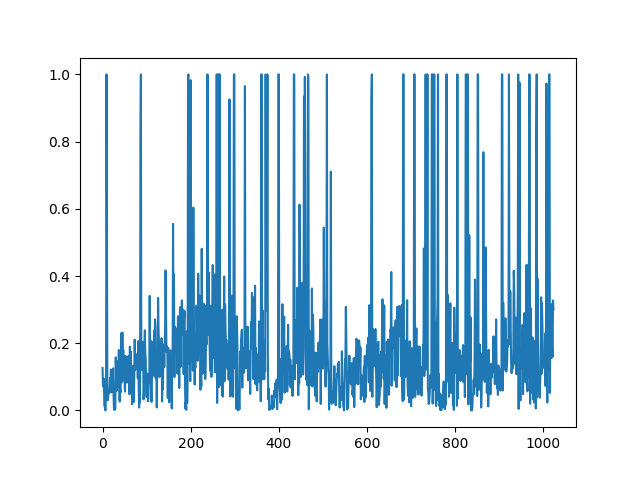
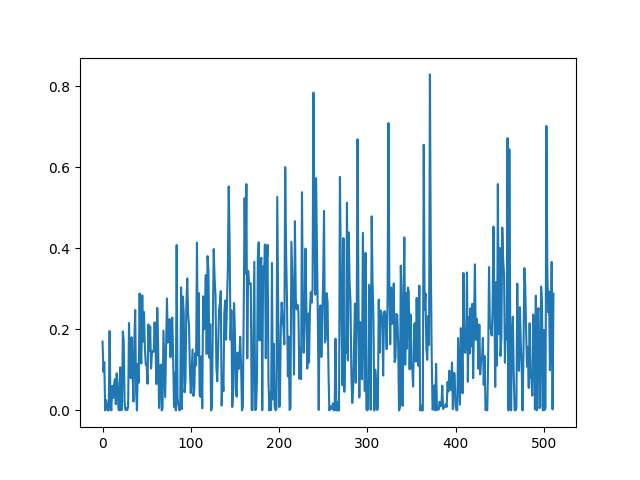
Changing trained model

diff --git a/prediction_experiments.py b/prediction_experiments.py
@@ -2,7 +2,7 @@ import torch
 import torch.nn as nn
 import torch.nn.functional as F
 from torch.utils.data import DataLoader
-from transformers import AutoModelForCausalLM, AutoTokenizer
+from transformers import AutoModelForCausalLM, AutoTokenizer, set_seed
 import os 
 import argparse
 from ensemble import Ensemble
@@ -15,19 +15,21 @@ import matplotlib.pyplot as plt
 from scipy.optimize import bisect
 import numpy as np
 
+set_seed(0)
+
 parser = argparse.ArgumentParser()
 parser.add_argument("--num_ensemble", type=int, default=8)
 parser.add_argument("--model_name", type=str, default="GPT2")
 parser.add_argument("--dataset", type=str, default="wikitext")
-parser.add_argument("--data_subset", type=str, default="wikitext-103-raw-v1")
+parser.add_argument("--data_subset", type=str, default="wikitext-103-v1")
 parser.add_argument("--device", type=str, default="cuda:6")
 parser.add_argument("--seq_length", type=int, default=512)
-parser.add_argument("--query_budget", type=int, default=1024)
+parser.add_argument("--query_budget", type=int, default=512)
 parser.add_argument("--target_multiplier", type=float, default=1.0)
 parser.add_argument("--epsilon", type=float, default=1.0)
 parser.add_argument("--temperature", type=float, default=0.95)
 parser.add_argument("--p_value", type=float, default=1.)
-parser.add_argument("--e_value", type=float, default=0.8)
+parser.add_argument("--e_value", type=float, default=0.01)
 
 def main():
     COUNT = 0
@@ -35,7 +37,7 @@ def main():
     tokenizer = AutoTokenizer.from_pretrained(args.model_name)
     model_dir = os.path.join("models", f"{args.num_ensemble}_ensemble")
 
-    model_paths = [os.path.join(model_dir, f"lora-{args.model_name}-{i}-finetuned-{args.data_subset}")
+    model_paths = [os.path.join(model_dir, f"lora-{args.model_name}-{i}-finetuned-wikitext-103-raw-v1")
                     for i in range(args.num_ensemble)]
     priv_ensemble = Ensemble(model_paths,
                              args.model_name,
@@ -43,19 +45,21 @@ def main():
                              args.device,
                              q_budget=args.query_budget,
                              eps=args.epsilon,
-                             target_mult=args.target_multiplier)
+                             target_mult=args.target_multiplier,
+                             p_value=args.p_value)
 
     #pub_model = AutoModelForCausalLM.from_pretrained(args.model_name,
     #                                                pad_token_id=tokenizer.eos_token_id).to(
     #                                                args.device)
 
     fine_tuned_model_dir = os.path.join("models", f"lora-{args.model_name}-finetuned-{args.data_subset}")
+    #fine_tuned_model_dir = os.path.join("models", f"lora-{args.model_name}-finetuned-wikitext-103-v1")
     fine_tuned_model = PeftModel.from_pretrained(copy.deepcopy(priv_ensemble.pub_model),
                                                  fine_tuned_model_dir,
                                                  pad_token_id=tokenizer.eos_token_id).to(
                                                  args.device)
     #dp_fine_tuned_model = torch.load(os.path.join("models", f"lora-{args.model_name}-{args.epsilon}-dp-finetuned-{args.data_subset}.pt")).to(args.device)
-    dp_fine_tuned_model = torch.load(os.path.join("models", f"lora-{args.model_name}-1.0-dp-finetuned-{args.data_subset}.pt")).to(args.device)
+    dp_fine_tuned_model = torch.load(os.path.join("models", f"lora-{args.model_name}-1.0-dp-finetuned-wikitext-103-raw-v1.pt")).to(args.device)
 
     seq_length = 512
     dataset = load_dataset(args.dataset, args.data_subset)
@@ -83,7 +87,7 @@ def main():
     dp_fine_tuned_neg_log_likelihood = []
     ensemble_neg_log_likelihood= []
     priv_neg_log_likelihood= []
-    test_loader = DataLoader(test_data)
+    test_loader = DataLoader(test_data)#, shuffle=True)
     priv_loss = []
     lambdas = []
     left_over = 0
@@ -96,13 +100,14 @@ def main():
             pub_output_logits = priv_ensemble.pub_model(input_ids).logits
             fine_tuned_output_logits =fine_tuned_model(input_ids).logits
             dp_fine_tuned_output_logits = dp_fine_tuned_model(input_ids).logits
-            pub_output_softmax = nn.functional.softmax(pub_output_logits.squeeze()/args.temperature)
-            fine_tuned_output_softmax = nn.functional.softmax(fine_tuned_output_logits.squeeze())
-            #fine_tuned_output_logits_filtered = top_p_filtering(fine_tuned_output_logits.clone().squeeze(), args.p_value) 
-            #fine_tuned_output_softmax = nn.functional.softmax(fine_tuned_output_logits_filtered/args.temperature)
-            #pub_output_logits_filtered = top_p_filtering(pub_output_logits.clone().squeeze(), args.p_value) 
+            #pub_output_softmax = nn.functional.softmax(pub_output_logits.squeeze()/args.temperature)
+            #fine_tuned_output_softmax = nn.functional.softmax(fine_tuned_output_logits.squeeze()/args.temperature)
+            fine_tuned_output_logits_filtered = top_p_filtering(fine_tuned_output_logits.clone().squeeze(), args.p_value) 
+            #fine_tuned_output_logits_filtered = epsilon_filtering(fine_tuned_output_logits.clone().squeeze(), args.e_value) 
+            fine_tuned_output_softmax = nn.functional.softmax(fine_tuned_output_logits_filtered/args.temperature)
+            pub_output_logits_filtered = top_p_filtering(pub_output_logits.clone().squeeze(), 0.99) 
             #pub_output_logits_filtered = epsilon_filtering(pub_output_logits.clone().squeeze(), args.e_value) 
-            #pub_output_softmax = nn.functional.softmax(pub_output_logits_filtered)
+            pub_output_softmax = nn.functional.softmax(pub_output_logits_filtered/args.temperature)
 
             output_dists = priv_ensemble.pred_dist(input_ids)
             ensemble_logits = []
@@ -113,10 +118,10 @@ def main():
                     token_softmax = [output_dist[j] for output_dist in output_dists]
                     ensemble_output_dist = priv_ensemble.priv_pred(token_softmax)
                     ensemble_logits.append(torch.log(ensemble_output_dist))
-                    priv_pred, loss, lambd = private_pred(fine_tuned_output_softmax[j], pub_output_softmax[j],
-                                             target + left_over)
+                    priv_pred, loss, lambd, COUNT = private_pred(fine_tuned_output_softmax[j], pub_output_softmax[j],
+                                             target + left_over, COUNT)
                     priv_logits.append(torch.log(priv_pred))
-                    #left_over += (target/2 - loss)
+                    left_over += (target/2 - loss)
                     priv_loss.append(loss)
                     lambdas.append(lambd)
 
@@ -143,10 +148,13 @@ def main():
     print(f"Perplexity score for Private Prediction Model: {priv_ppl.mean():.2f}")
     print(f"Perplexity score for Ensemble Private Prediction Model: {ensemble_ppl.mean():.2f}")
 
-    print(f"Total privacy loss of model: {np.sum(priv_loss):.4f}")
+    print(f"Total privacy loss of model: {sum(priv_loss):.4f}")
+    print(f"Max loss", max(priv_loss))
     print(f"Average lambda value: {np.mean(lambdas):.4f}")
     print(f"Min lambda: {np.min(lambdas)}")
     print(f"Max lambda: {np.max(lambdas)}")
+
+    print("Count ", COUNT)
 
     priv_ensemble.print_priv_losses()
     priv_ensemble.print_lambdas()
@@ -166,21 +174,26 @@ def plot_ppl(ppl_scores):
     plt.savefig(os.path.join("plt", "ensemble_perplexity_scores.png"))
     plt.clf()
 
-def private_pred(priv_model, pub_model, target):
-    lambd = lambda_solver_bisection(priv_model.cpu(), pub_model.cpu(), target)
+def private_pred(priv_model, pub_model, target, count, alpha=2):
+    lambd = lambda_solver_bisection(priv_model.cpu(), pub_model.cpu(), target, 2*alpha)
+    #lambd = 0.1
     pred = lambd * priv_model + (1-lambd) * pub_model
-    loss = renyiDiv(pred.cpu(), pub_model.cpu(), alpha=2)
-    return pred, loss, lambd
+    loss = max(renyiDiv(pred.cpu(), pub_model.cpu(), alpha=2*alpha),
+               renyiDiv(pub_model.cpu(), pred.cpu(), alpha=2*alpha)).item()
+    if loss > target:
+        count += 1
+    return pred, loss, lambd, count
 
-def lambda_solver_bisection(p_priv, p_pub, target):
+def lambda_solver_bisection(p_priv, p_pub, target, alpha):
     def f(lambd):
         pred = lambd * p_priv + (1-lambd) * p_pub
-        eps = renyiDiv(pred, p_pub, alpha=2)
+        eps = max(renyiDiv(pred, p_pub, alpha=alpha), renyiDiv(p_pub, pred, alpha=alpha))
         return (eps - target/2)
+
     if f(1) <= 0.0:
         lambd = 1 
     else:
-        lambd = bisect(f, 0, 1, maxiter=20, disp=False)
+        lambd = bisect(f, 0, 1, maxiter=10, disp=False)
     return lambd
 
 def calc_priv_loss(p_pub, pred):
@@ -188,25 +201,17 @@ def calc_priv_loss(p_pub, pred):
     loss = torch.max(torch.max(p_pub[ind]/pred[ind]), torch.max(pred[ind]/p_pub[ind]))
     return (torch.log(loss)**2) / 2
 
-def lambd_solver(p_priv, p_pub, target):
-    lamb_1 = torch.max(-((np.exp(target/2) - 1) * p_pub)/(p_pub-p_priv))
-    lamb_2 = torch.max(((np.exp(target/2) - 1) * p_pub)/(np.exp(target/2) * (p_priv-p_pub)))
-    lamb = torch.abs(lamb_1 - lamb_2)
-    return torch.min(lamb, torch.tensor(1.))
-    #lamb_1 = torch.min(lamb_1, torch.tensor(1.))
-    #lamb_2 = torch.min(lamb_2, torch.tensor(1.))
-    return torch.max(lamb_1, lamb_2)
-
 def renyiDiv(p, q, alpha=float('inf')):
     if alpha == float('inf'):
         RD = torch.log(torch.max(p/q))
     elif alpha == 1:
         RD = torch.sum(p*torch.log(p/q))
     else:
-        r = (p**alpha)/(q**(alpha-1))
-        #RD = 1/(alpha-1)*np.log(
-        #    np.sum((p**alpha)/(q**(alpha-1))))
-        RD = 1/(alpha-1)*torch.log(torch.sum(r))
+        inds = torch.nonzero(q)
+        #r = (p[inds]**alpha)/(q[inds]**(alpha-1))
+        #RD = 1/(alpha-1)*torch.log(torch.sum(r))
+        RD = 1/(alpha-1)*torch.log(
+            torch.sum((p[inds]**alpha)/(q[inds]**(alpha-1))))
     if torch.isnan(RD):
         RD = torch.log(torch.max(p/q))
     return RD 

diff --git a/ensemble.py b/ensemble.py
@@ -13,13 +13,14 @@ import os
 class Ensemble():
     def __init__(self, model_dirs, model_name, tokenizer,
                 device="cpu", q_budget=1024, alpha=2, eps=2, 
-                target_mult=1.0
+                target_mult=1.0, p_value=1.0
     ):
         self.device = device
         self.model_name = model_name
         self.q_budget = q_budget
         self.alpha = alpha
         self.eps = eps
+        self.p_value = p_value
         self.pub_model = AutoModelForCausalLM.from_pretrained(self.model_name,
                                                      pad_token_id=tokenizer.eos_token_id).to(
                                                      self.device)
@@ -50,8 +51,9 @@ class Ensemble():
         elif alpha == 1:
             RD = torch.sum(p*torch.log(p/q))
         else:
+            inds = torch.nonzero(q)
             RD = 1/(alpha-1)*torch.log(
-                torch.sum((p**alpha)/(q**(alpha-1))))
+                torch.sum((p[inds]**alpha)/(q[inds]**(alpha-1))))
         if torch.isnan(RD):
             RD = torch.log(torch.max(p/q))
         return RD 
@@ -61,11 +63,12 @@ class Ensemble():
         for i in range(self.num_ensemble):
             self.lora_ensemble.set_adapter(f"lora-{i}")
             logits = self.lora_ensemble(context).logits.squeeze()
-            output_dists.append(F.softmax(logits))
+            logits_filtered = self.top_p_filtering(logits.clone(), self.p_value)
+            output_dists.append(F.softmax(logits_filtered))
         logits = self.pub_model(context).logits.squeeze()
-        #logits_filtered = self.top_p_filtering(logits.clone(), 0.95)
-        #output_dists.append(F.softmax(logits_filtered))
+        #logits_filtered = self.top_p_filtering(logits.clone(), 0.99)
         output_dists.append(F.softmax(logits))
+        #output_dists.append(F.softmax(logits))
         return output_dists 
 
     def top_p_filtering(self, logits, p, filter_value=-float("Inf")):
@@ -85,17 +88,12 @@ class Ensemble():
 
         return logits
 
-    def calc_priv_loss(self, pred, p_pub):
-        #ind = torch.nonzero(p_pub)
-        #loss = torch.max(torch.max(p_pub[ind]/pred[ind]), torch.max(pred[ind]/p_pub[ind]))
-        loss = torch.max(torch.max(p_pub/pred), torch.max(pred/p_pub))
-        return (torch.log(loss)**2) / 2
-
     def priv_pred(self, output_dists):
         self.lambdas = [self.lambda_solver_bisection(output_dists[i].cpu(),
                                                     output_dists[self.num_ensemble].cpu(),
                                                     i
                                                     ) for i in range(self.num_ensemble)]
+        #self.lambdas = [0.1 for i in range(self.num_ensemble)]
         self.lambda_history.append(np.mean(self.lambdas))
         mixed_dists = [self.mix(output_dists[i], output_dists[self.num_ensemble], self.lambdas[i])
                        for i in range(self.num_ensemble)]
@@ -103,25 +101,27 @@ class Ensemble():
         mixed_dists = torch.stack(mixed_dists)
         ensemble_dist = torch.mean(mixed_dists, dim=0) 
         pub_pred = output_dists[self.num_ensemble]
-        losses = [self.renyiDiv(mix_dist.cpu(), pub_pred.cpu(), alpha=self.alpha) for mix_dist in mixed_dists]
+        losses = [max(self.renyiDiv(mix_dist.cpu(), pub_pred.cpu(), alpha=2*self.alpha),
+               self.renyiDiv(pub_pred.cpu(), mix_dist.cpu(), alpha=2*self.alpha)) for mix_dist in mixed_dists]
+        #losses = [self.calc_priv_loss(mix_dist, pub_pred) for mix_dist in mixed_dists]
         
         for i, loss in enumerate(losses):
             self.personalized_priv_loss[i].append(loss.cpu())
-            #self.left_over_priv_loss[i] += (self.target/2 - loss.cpu().item())
+            self.left_over_priv_loss[i] += (self.target/2 - loss.cpu().item())
         
-        return ensemble_dist
+        return ensemble_dist 
 
     def lambda_solver_bisection(self, p_priv, p_pub, i):
         def f(lambd):
             pred = lambd * p_priv + (1-lambd) * p_pub
             #eps = self.calc_priv_loss(pred, p_pub)
-            #return (eps - (self.target/2 + self.left_over_priv_loss[i]))
-            eps = self.renyiDiv(pred, p_pub, alpha=self.alpha)
-            return (eps - self.target/2)
+            eps = max(self.renyiDiv(pred, p_pub, alpha=2*self.alpha),
+                      self.renyiDiv(p_pub, pred, alpha=2*self.alpha))
+            return (eps - (self.target/2 + self.left_over_priv_loss[i]))
         if f(1) <= 0.0:
             lambd = 1 
         else:
-            lambd = bisect(f, 0, 1, maxiter=20, disp=False)
+            lambd = bisect(f, 0, 1, maxiter=10, disp=False)
         return lambd
 
     def mix(self, p, p_prime, lambd=0.5):

diff --git a/training_ensemble.py b/training_ensemble.py
@@ -19,12 +19,12 @@ import numpy as np
 import argparse
 import tqdm
 
-set_seed(0)
+#set_seed(0)
 
 parser = argparse.ArgumentParser()
 parser.add_argument("--model_name", type=str, default="GPT2")
 parser.add_argument("--dataset", type=str, default="wikitext")
-parser.add_argument("--subset", type=str, default="wikitext-103-raw-v1")
+parser.add_argument("--subset", type=str, default="wikitext-103-v1")
 parser.add_argument("--num_ensemble", type=int, default=8)
 parser.add_argument("--epochs", type=int, default=3)
 parser.add_argument("--lora_r", type=int, default=4)
